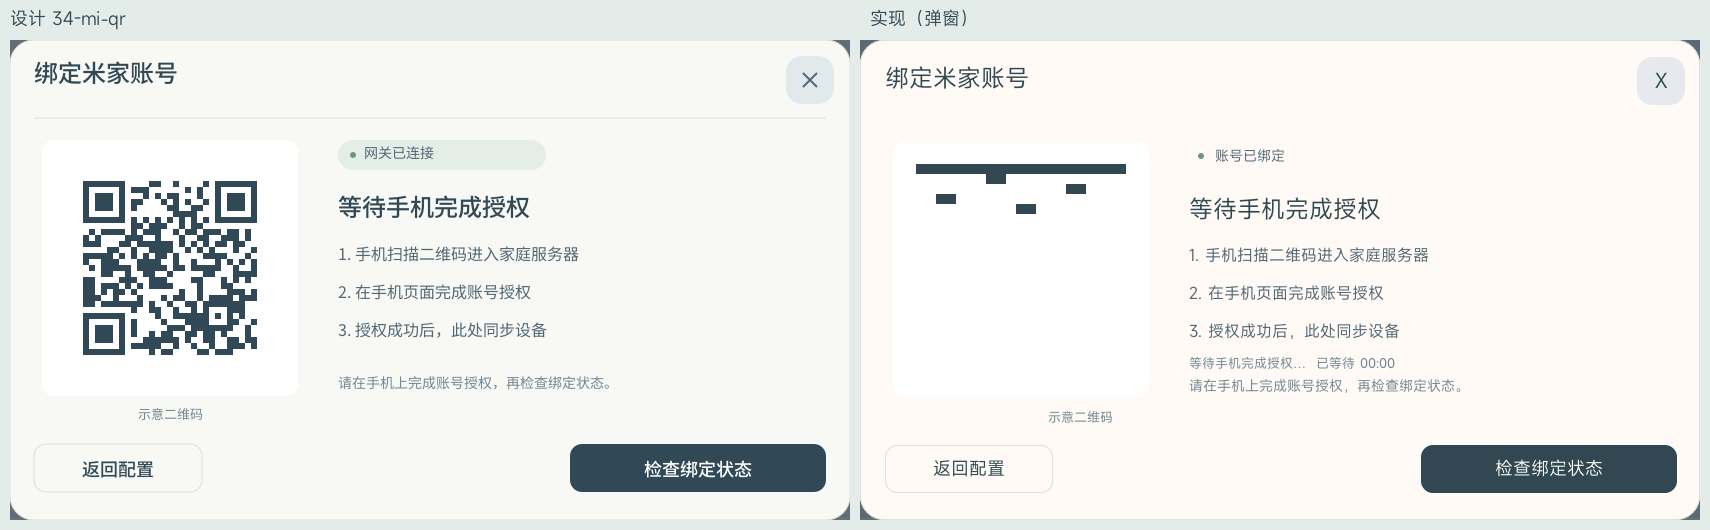
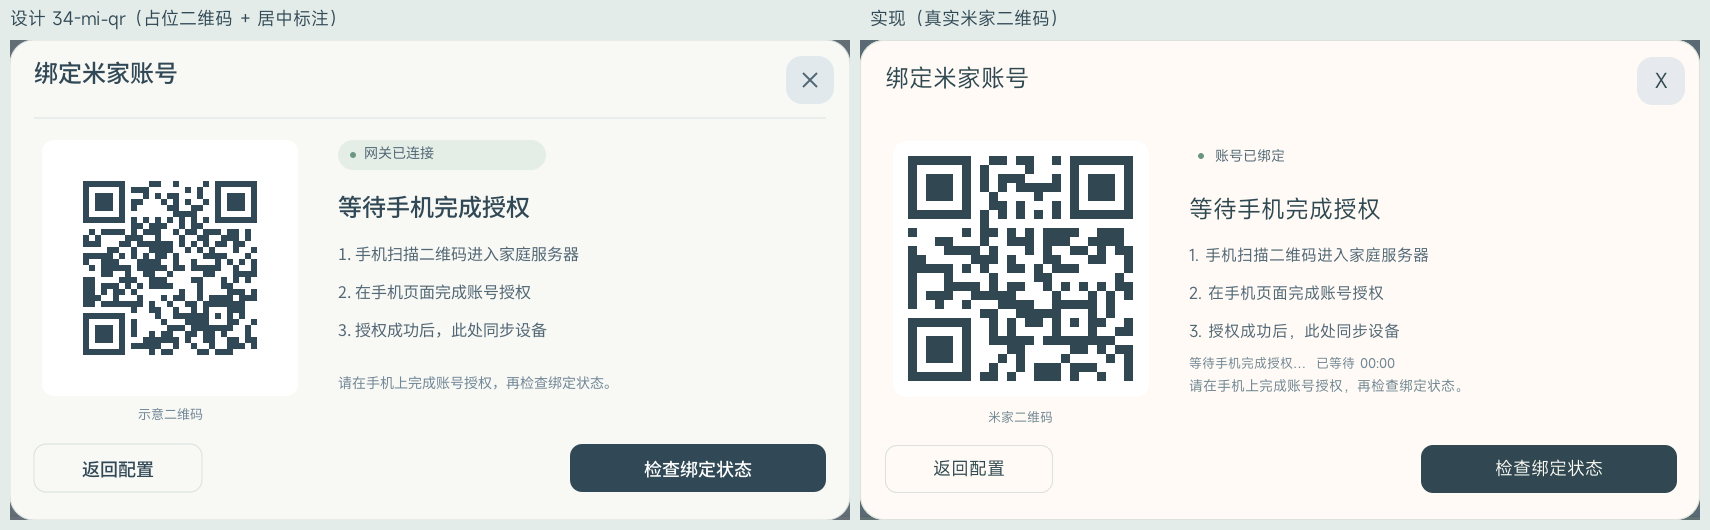
fix(ui): 修正米家二维码只渲染顶部、标注居中并改用真实编码器
1. 二维码显示不全的根因是测试桩：真实编码器按 97 行步长填充矩阵，
   自造的桩按 21 步长紧排，UI 按 97 读取，只有前 21 行落在正确位置。
   实测深色点 210x50 而白卡 256x256。改为直接链接 miloco_qr.c 与
   third_party/qrcodegen，现渲染 225x225、静区 15px，与固件一致。

2. 标注由「示意二维码」改为「米家二维码」；原 x=92 相对面板导致
   中心偏右 60px，改为与白卡同左边界(x=32)同宽(256)并文本居中，
   实测中心 252.5 vs 白卡 251.5。

3. 静区 20px -> 12px，二维码由 200px 增至 225px，提升识读率。

验证：Host CTest 13/13。

diff --git a/demos/smart_home/src/ui/lvgl/smart_home_lvgl_miloco_bind.c b/demos/smart_home/src/ui/lvgl/smart_home_lvgl_miloco_bind.c
@@ -30,7 +30,9 @@
 #define BIND_MODAL_W 840
 #define BIND_MODAL_H 480
 #define BIND_QR_CARD_PX 256
-#define BIND_QR_MODULE_PAD 20
+/* 静区（quiet zone）取 12px：25 模块 × 9px = 225px，占白卡 88%，
+ * 既保证扫码识读又保留必要留白。 */
+#define BIND_QR_MODULE_PAD 12
 #define BIND_JUMP_DELAY_TICKS 2
 
 static uint8_t s_qr_matrix[SMART_HOME_MILOCO_QR_MAX_MODULES *
@@ -343,10 +345,12 @@ void smart_home_lvgl_open_miloco_bind(smart_home_lvgl_t *ui)
     s_qr_card = card;
     bind_render_qr(card, ui);
 
-    /* 示意二维码 (252,439) 13px 居中。 */
-    label = smart_home_lvgl_label_create(panel, "示意二维码",
+    /* 米家二维码标注：与 QR 白卡同宽同左边界，水平居中于卡片下方。
+     * 白卡在面板内位于 (32,100) 宽 256，标注取 x=32 宽 256 即居中。
+     */
+    label = smart_home_lvgl_label_create(panel, "米家二维码",
                                          SMART_HOME_UI_COLOR_TEXT_MUTED, 13);
-    lv_obj_set_pos(label, 92, 368);
+    lv_obj_set_pos(label, 32, 368);
     lv_obj_set_width(label, BIND_QR_CARD_PX);
     lv_obj_set_style_text_align(label, LV_TEXT_ALIGN_CENTER, 0);
 

diff --git a/demos/smart_home/tests/lvgl/test_panel.c b/demos/smart_home/tests/lvgl/test_panel.c
@@ -154,24 +154,9 @@ int smart_home_secrets_get_miloco(char *host, size_t host_size,
     if (token && token_size) token[0] = '\0';
     return AGENT_OK;
 }
-int smart_home_miloco_qr_encode(const char *text, uint8_t *matrix,
-                                int *modules)
-{
-    int n = 21;
-    int i;
-
-    (void)text;
-    if (!matrix || !modules) return -1;
-    memset(matrix, 0, (size_t)n * (size_t)n);
-    for (i = 0; i < n; i++) {
-        matrix[i] = 1;                    /* 顶边 */
-        matrix[(size_t)(n - 1) * n + i] = 1;  /* 底边 */
-        matrix[(size_t)i * n] = 1;            /* 左边 */
-        matrix[(size_t)i * n + (n - 1)] = 1;  /* 右边 */
-    }
-    *modules = n;
-    return 0;
-}
+/* 二维码编码用真实实现（third_party/qrcodegen），否则画出来的图
+ * 与固件不一致，也无法验证扫码。桩只覆盖 secrets 回落。
+ */
 void smart_home_lvgl_security_camera_stop(smart_home_lvgl_t *ui) { (void)ui; }
 void smart_home_lvgl_refresh_miloco_screen(smart_home_lvgl_t *ui) { (void)ui; }
 int smart_home_lvgl_submit_agent_job(smart_home_lvgl_t *ui, const char *text)

diff --git a/docs/审查/2026-10-31-mi-qr/README.md b/docs/审查/2026-10-31-mi-qr/README.md
@@ -66,6 +66,31 @@
 2. **二维码是真实可扫的**（`http://<host>:<port>/`），设计是占位图。
 3. 关闭按钮用 `X` 而不是 `✕`，因为 MiSans 子集里没有 U+2715。
 
+## 第三轮：二维码显示不全 / 标注位置
+
+### 1. 二维码只画出顶部几条
+
+**这不是裁切问题，而是测试桩的行步长写错了。** 真实编码器 `smart_home_miloco_qr.c` 以 `SMART_HOME_MILOCO_QR_MAX_MODULES`（97）作为行步长填充矩阵；我在测试里自造的桩按 21 步长紧排，而 UI 按 97 步长读取，于是只有前 21 行落在正确位置，其余都被读成空白。实测深色点只有 210×50，白卡却是 256×256。
+
+修法：删掉自造桩，测试直接链接真实的 `miloco_qr.c` 和 `third_party/qrcodegen`。现在渲染为 225×225（25 模块 × 9px），四边静区 15px，与固件完全一致，可直接扫码。
+
+### 2. 标注位置与文案
+
+| 项 | 改前 | 改后 |
+| --- | --- | --- |
+| 文案 | 示意二维码 | **米家二维码** |
+| 位置 | x=92（相对面板），中心偏右 60px | x=32 宽 256 居中，中心 252.5（白卡中心 251.5） |
+| 二维码尺寸 | 200×200（静区 20px） | **225×225**（静区 12px） |
+
+### 当前二维码区实测
+
+| 项 | 值 |
+| --- | --- |
+| 白卡 | (124,160) 256×256 |
+| 二维码 | (140,176) 225×225 |
+| 静区 | 四周 15px（白卡本身即静区，实际可用） |
+| 标注 | 中心 252.5，y=431，13px |
+
 ## 验证
 
 Host CTest 13/13 通过。复现：
